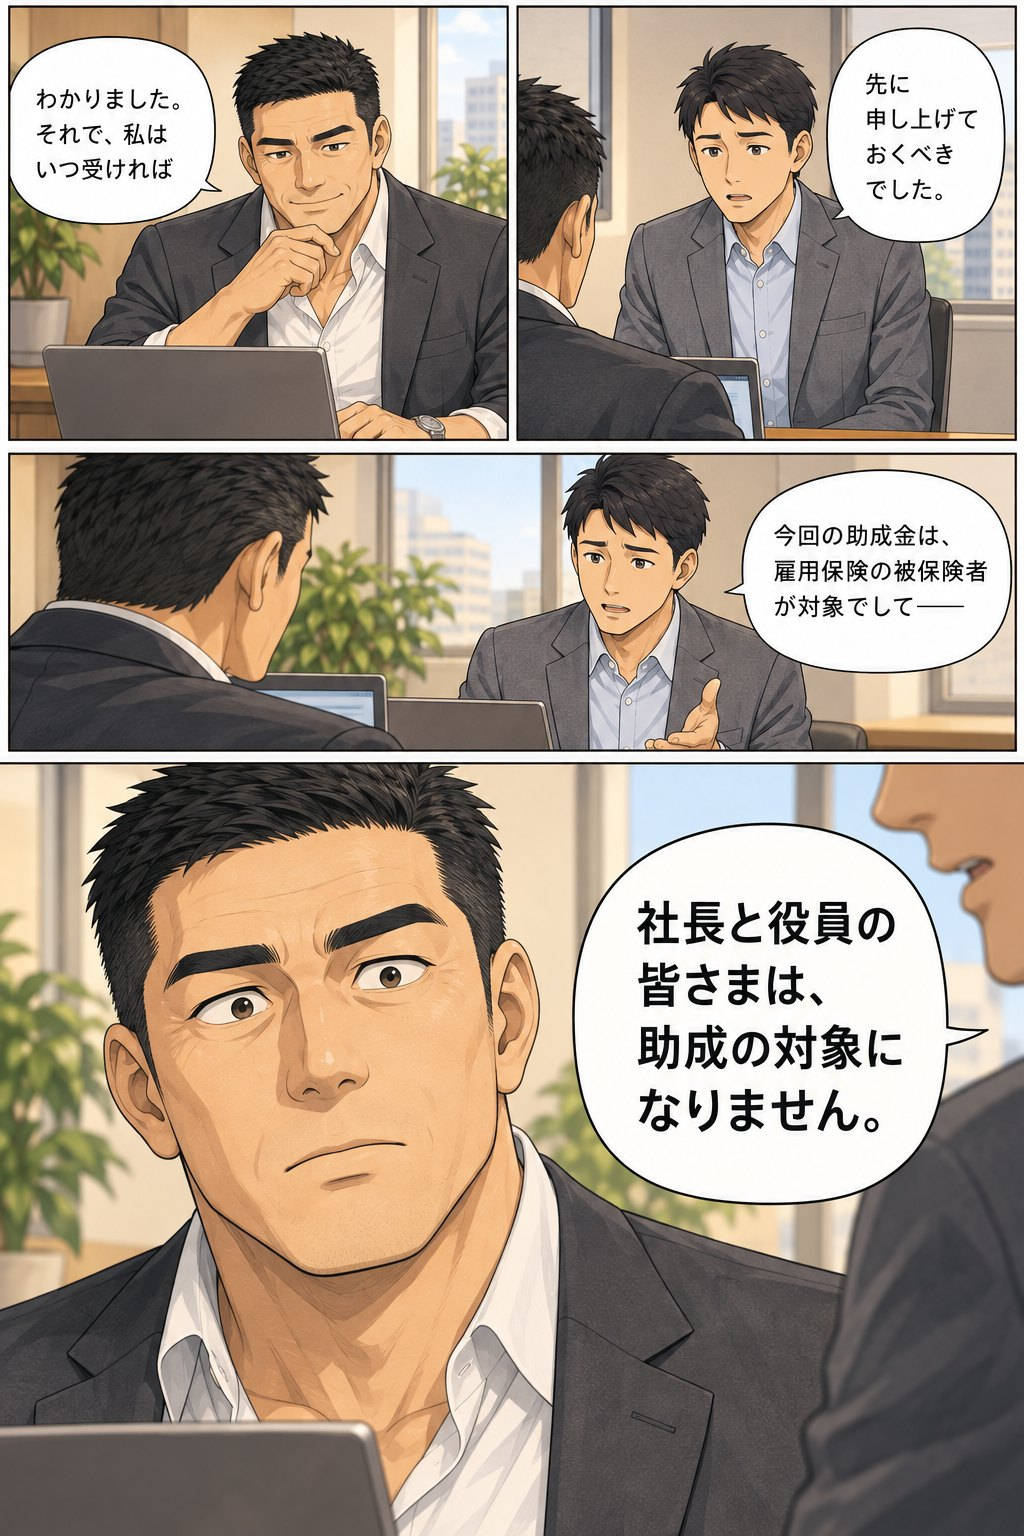
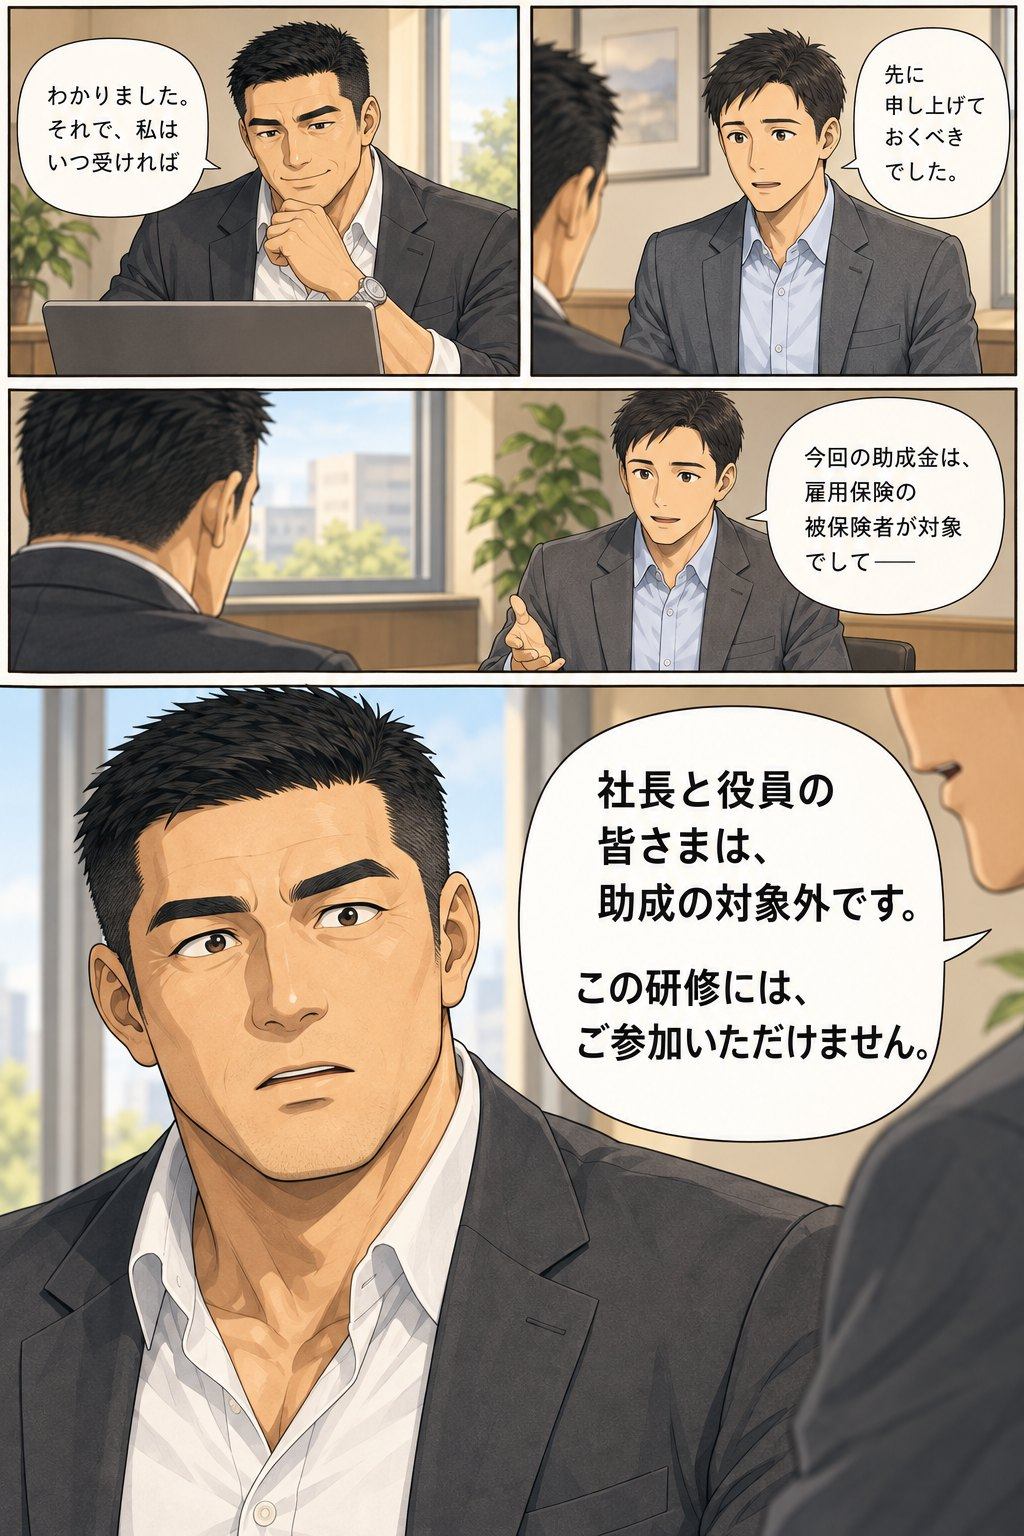
番外編：競合との対比、参加不可の明示、ツール選定、電話の相手を絵に出す
- P03 手書きの架電リストで六十件かけて一件、の横に「同じころ、競合では」の
  カットを足した。見込み先を自動抽出して確度順に並べ、ヘッドセットで短く
  かけている。負けている理由を絵で見せる
- P07 「助成の対象になりません」だけでは伝わらないので、「この研修には、
  ご参加いただけません」を足した
- P22 最後を付箋のメモから、営業AIツールの比較表を見ている絵に。自動抽出・
  自動架電・自社データ連携の三列で、自分で選べる状態になったことを示す
- P23 山本部長をインセットで描き、吹き出しの向きを相手側にした。神崎の
  独り言に見えていた

diff --git a/bangai1/index.html b/bangai1/index.html
@@ -8,7 +8,7 @@
 <meta property="og:title" content="ある経営者の選択 番外編 〜探していた、一週間〜">
 <meta property="og:description" content="助成金を使うと、十時間以上・職種ごとの組み直し・実務は訓練に使えない。そして社長と役員は対象外。着手は一か月半あと。待つあいだに二件目を失った社長の話。全24ページ。">
 <meta property="og:type" content="article">
-<meta property="og:image" content="https://mgomita-ui.github.io/hatarakikata4-lp/bangai1/pages/og.jpg?v=0913a">
+<meta property="og:image" content="https://mgomita-ui.github.io/hatarakikata4-lp/bangai1/pages/og.jpg?v=0913b">
 <meta name="twitter:card" content="summary_large_image">
 <link rel="stylesheet" href="https://fonts.googleapis.com/css2?family=Noto+Sans+JP:wght@400;500;700;900&family=Poppins:wght@600;700&display=swap">
 <style>
@@ -87,7 +87,7 @@
   var chapters=[[2,'失注'],[5,'提案'],[7,'対象外'],[11,'三時間'],[21,'誓約'],[23,'紙一重']];
   var viewer=document.getElementById('viewer'),endEl=document.getElementById('end');
   for(var i=1;i<=TOTAL;i++){var n=('0'+i).slice(-2);var s=document.createElement('section');s.className='slide';s.id='p'+n;
-    s.innerHTML='<img src="pages/p'+n+'.jpg?v=0913a" alt="ページ'+i+'" '+(i>2?'loading="lazy"':'')+' width="1024" height="1536"><span class="n">'+n+' / '+TOTAL+'</span>';
+    s.innerHTML='<img src="pages/p'+n+'.jpg?v=0913b" alt="ページ'+i+'" '+(i>2?'loading="lazy"':'')+' width="1024" height="1536"><span class="n">'+n+' / '+TOTAL+'</span>';
     viewer.insertBefore(s,endEl);}
   var slides=Array.prototype.slice.call(viewer.querySelectorAll('.slide'));
   var nav=document.getElementById('nav');

diff --git a/bootcamp/index.html b/bootcamp/index.html
@@ -965,7 +965,7 @@
           <span class="tx"><span class="tag">映像・1分34秒</span><span class="tt">時間がもったいない<small>AI研修が、いつのまにか遠くなる</small></span></span>
         </a>
         <a class="mcta" href="../manga2/" aria-label="漫画『ある経営者の選択 II』を読む"><span class="cv"><img src="../manga2/pages/cover.jpg" alt=""></span><span class="tx"><span class="tag">漫画・全24ページ</span><span class="tt">町工場の社長が、会場で5時間<small>ある経営者の選択 II</small></span></span></a>
-        <a class="mcta" href="../bangai1/" aria-label="番外編『探していた、一週間』を読む"><span class="cv"><img src="../bangai1/pages/cover.jpg?v=0913a" alt=""></span><span class="tx"><span class="tag">番外編・全24ページ</span><span class="tt">営業会社の社長が、御社で3時間<small>番外編「探していた、一週間」</small></span></span></a>
+        <a class="mcta" href="../bangai1/" aria-label="番外編『探していた、一週間』を読む"><span class="cv"><img src="../bangai1/pages/cover.jpg?v=0913b" alt=""></span><span class="tx"><span class="tag">番外編・全24ページ</span><span class="tt">営業会社の社長が、御社で3時間<small>番外編「探していた、一週間」</small></span></span></a>
       </div>
       <p class="firm">レリック社会保険労務士法人<small>AI MANAGEMENT × QUEST-STYLE BOOTCAMP ｜ 2026</small></p>
     </div>

diff --git a/index.html b/index.html
@@ -532,7 +532,7 @@
           <span class="go" aria-hidden="true">›</span>
         </a>
         <a class="mcta" href="bangai1/" aria-label="番外編 漫画『探していた、一週間』を読む（全24ページ）" style="margin-top:8px">
-          <span class="cv"><img loading="lazy" decoding="async" src="bangai1/pages/cover.jpg?v=0913a" alt="漫画『ある経営者の選択 番外編』表紙"></span>
+          <span class="cv"><img loading="lazy" decoding="async" src="bangai1/pages/cover.jpg?v=0913b" alt="漫画『ある経営者の選択 番外編』表紙"></span>
           <span class="tx"><span class="tag">番外編・AIで制作した漫画</span><span class="tt">ある経営者の選択 番外編<small>探していた、一週間</small></span><span class="meta">営業会社の社長が、御社で3時間。助成金を使わなかった理由</span></span>
         </a></div>
       <div class="proof"><span>法令の根拠と、働き方の実態を確認</span><span>減るものも先に説明</span><span>従業員と一緒に決める</span></div>
